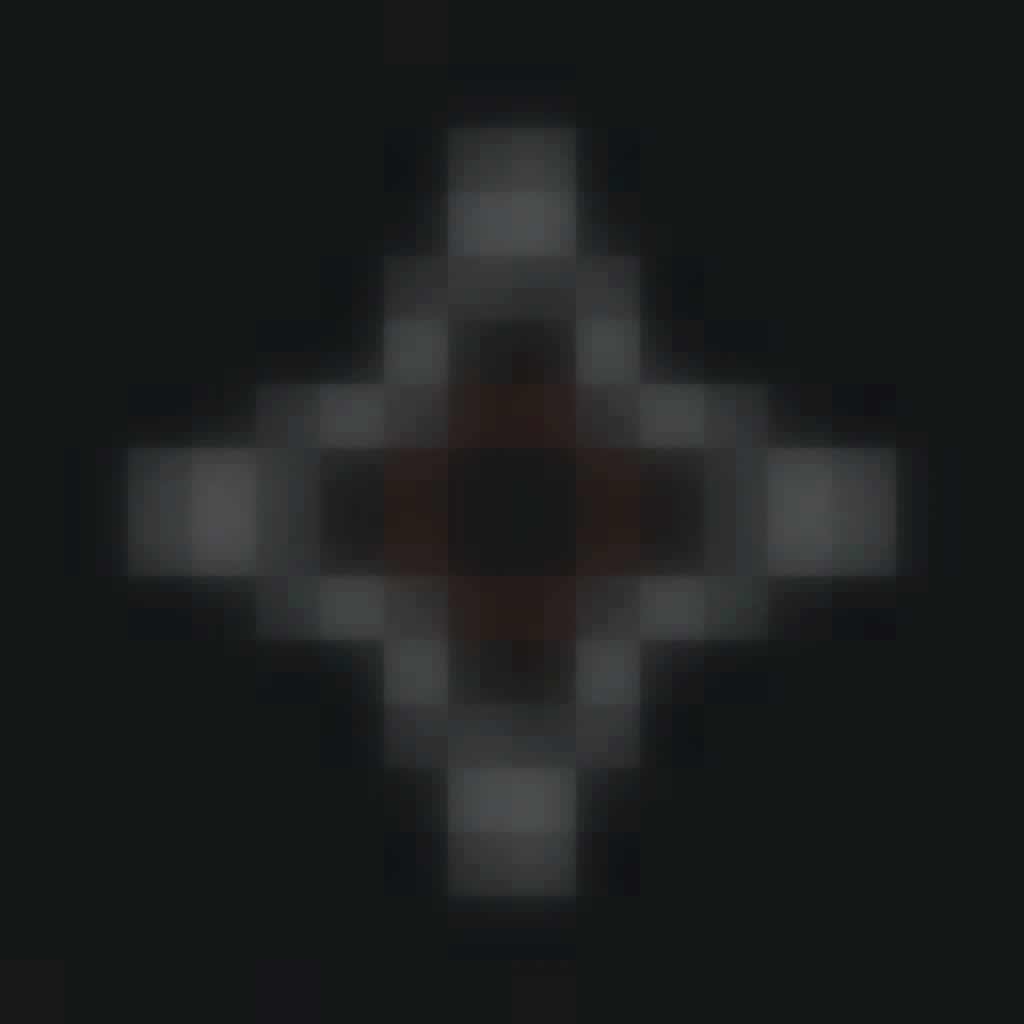
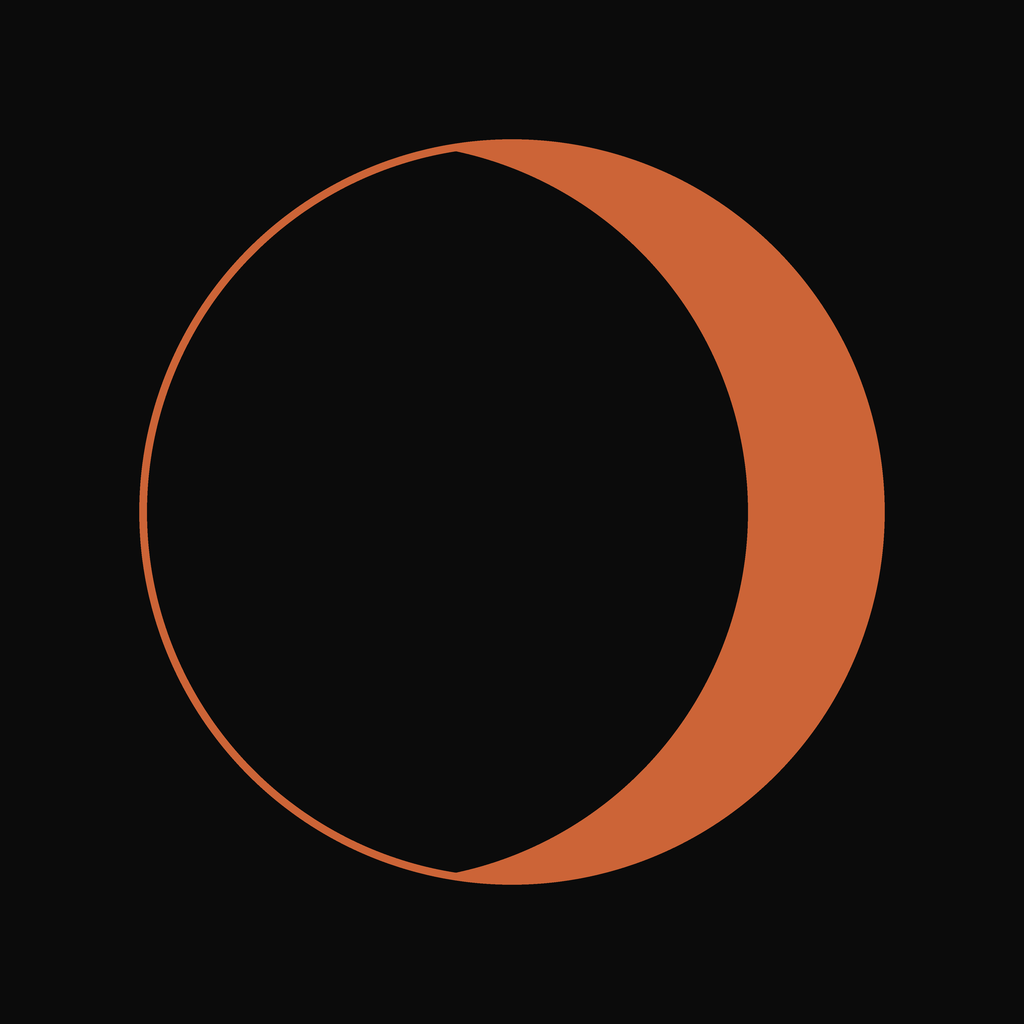
feat: replace star mark with geometric eclipse
Drawn in code so the crescent stays sharp from 16px through the Dock.

diff --git a/Ember/MenuBarMark.swift b/Ember/MenuBarMark.swift
@@ -6,48 +6,32 @@ enum MenuBarMark {
     static func image(phase: Phase? = .day) -> NSImage {
         let size = NSSize(width: 18, height: 18)
         let image = NSImage(size: size, flipped: false) { rect in
-            let inset = rect.insetBy(dx: 1.5, dy: 1.5)
-            let c = CGPoint(x: rect.midX, y: rect.midY)
+            let inset = rect.insetBy(dx: 2, dy: 2)
             let r = min(inset.width, inset.height) / 2
-            let star = starPath(center: c, r: r)
-            star.lineWidth = 1.1
-            star.lineJoinStyle = .miter
-            NSColor.black.setStroke()
-            star.stroke()
+            let box = NSRect(x: rect.midX - r, y: rect.midY - r, width: r * 2, height: r * 2)
+            NSColor.black.set()
             switch phase {
-            case .evening:
-                let inner = NSBezierPath()
-                inner.move(to: CGPoint(x: c.x, y: c.y + r * 0.32))
-                inner.line(to: CGPoint(x: c.x + r * 0.32, y: c.y))
-                inner.line(to: CGPoint(x: c.x, y: c.y - r * 0.32))
-                inner.line(to: CGPoint(x: c.x - r * 0.32, y: c.y))
-                inner.close()
-                NSColor.black.setFill()
-                inner.fill()
-            case .night:
-                NSColor.black.setFill()
-                star.fill()
+            case .evening, .night:
+                let offset: CGFloat = phase == .night ? r * 0.50 : r * 0.36
+                let crescent = NSBezierPath()
+                crescent.windingRule = .evenOdd
+                crescent.appendOval(in: box)
+                crescent.appendOval(in: box.offsetBy(dx: -offset, dy: 0))
+                crescent.fill()
+                if phase == .evening {
+                    let ring = NSBezierPath(ovalIn: box)
+                    ring.lineWidth = 1.2
+                    ring.stroke()
+                }
             default:
-                break
+                let ring = NSBezierPath(ovalIn: box)
+                ring.lineWidth = 1.2
+                ring.stroke()
             }
             return true
         }
         image.isTemplate = true
         return image
-    }
-
-    private static func starPath(center c: CGPoint, r: CGFloat) -> NSBezierPath {
-        let path = NSBezierPath()
-        path.move(to: CGPoint(x: c.x, y: c.y + r))
-        path.line(to: CGPoint(x: c.x + r * 0.28, y: c.y + r * 0.28))
-        path.line(to: CGPoint(x: c.x + r, y: c.y))
-        path.line(to: CGPoint(x: c.x + r * 0.28, y: c.y - r * 0.28))
-        path.line(to: CGPoint(x: c.x, y: c.y - r))
-        path.line(to: CGPoint(x: c.x - r * 0.28, y: c.y - r * 0.28))
-        path.line(to: CGPoint(x: c.x - r, y: c.y))
-        path.line(to: CGPoint(x: c.x - r * 0.28, y: c.y + r * 0.28))
-        path.close()
-        return path
     }
 }
 

diff --git a/site/index.html b/site/index.html
@@ -42,7 +42,19 @@
     </div>
 
     <header class="nav">
-      <a class="wordmark" href="/">Ember</a>
+      <a class="wordmark" href="/">
+          <svg viewBox="0 0 64 64" width="22" height="22" aria-hidden="true">
+            <defs>
+              <mask id="nav-crescent">
+                <circle cx="32" cy="32" r="20" fill="#fff"/>
+                <circle cx="24.8" cy="32" r="20" fill="#000"/>
+              </mask>
+            </defs>
+            <circle cx="32" cy="32" r="20" fill="#cc6437" mask="url(#nav-crescent)"/>
+            <circle cx="32" cy="32" r="20" fill="none" stroke="#cc6437" stroke-width="1.4"/>
+          </svg>
+          Ember
+        </a>
       <a class="pill" href="#get">Get Ember</a>
     </header>
 
@@ -53,8 +65,14 @@
         <p class="flank right">Dark when you do not</p>
         <div class="hero-core">
           <svg class="mark" viewBox="0 0 64 64" aria-hidden="true">
-            <path d="M32 4 L40 24 L60 32 L40 40 L32 60 L24 40 L4 32 L24 24 Z" fill="none" stroke="#fff" stroke-width="1.6"/>
-            <rect x="24" y="24" width="16" height="16" transform="rotate(45 32 32)" fill="none" stroke="#cc6437" stroke-width="1.4"/>
+            <defs>
+              <mask id="ember-crescent">
+                <circle cx="32" cy="32" r="20" fill="#fff"/>
+                <circle cx="24.8" cy="32" r="20" fill="#000"/>
+              </mask>
+            </defs>
+            <circle cx="32" cy="32" r="20" fill="#cc6437" mask="url(#ember-crescent)"/>
+            <circle cx="32" cy="32" r="20" fill="none" stroke="#cc6437" stroke-width="1.4"/>
           </svg>
           <h1>Ember</h1>
           <p class="lede">The Mac menu bar app that paints the screen with the day. Cool light to wake. Warm and dim to sleep. Not an orange filter.</p>

diff --git a/site/privacy.html b/site/privacy.html
@@ -11,7 +11,19 @@
   </head>
   <body>
     <header class="nav">
-      <a class="wordmark" href="/">Ember</a>
+      <a class="wordmark" href="/">
+          <svg viewBox="0 0 64 64" width="22" height="22" aria-hidden="true">
+            <defs>
+              <mask id="nav-crescent">
+                <circle cx="32" cy="32" r="20" fill="#fff"/>
+                <circle cx="24.8" cy="32" r="20" fill="#000"/>
+              </mask>
+            </defs>
+            <circle cx="32" cy="32" r="20" fill="#cc6437" mask="url(#nav-crescent)"/>
+            <circle cx="32" cy="32" r="20" fill="none" stroke="#cc6437" stroke-width="1.4"/>
+          </svg>
+          Ember
+        </a>
       <a class="pill" href="/">Back</a>
     </header>
     <main class="legal">

diff --git a/site/styles.css b/site/styles.css
@@ -58,7 +58,13 @@ p { margin: 0; }
   max-width: 1400px;
   margin: 0 auto;
 }
-.wordmark { font-size: 20px; }
+.wordmark {
+  font-size: 20px;
+  display: inline-flex;
+  align-items: center;
+  gap: 10px;
+}
+.wordmark svg { display: block; }
 
 .pill {
   display: inline-block;
@@ -96,7 +102,7 @@ p { margin: 0; }
   text-align: center;
   max-width: 560px;
 }
-.mark { width: 64px; height: 64px; margin: 0 auto; }
+.mark { width: 72px; height: 72px; margin: 0 auto 8px; }
 .lede {
   font-size: 15px;
   line-height: 1.43;

diff --git a/scripts/make-icon.py b/scripts/make-icon.py
@@ -1,0 +1,71 @@
+#!/usr/bin/env python3
+"""Draw the Ember eclipse mark at every Mac icon size."""
+
+from pathlib import Path
+from PIL import Image, ImageDraw
+
+VOID = (11, 11, 11, 255)
+EMBER = (204, 100, 55, 255)
+ROOT = Path(__file__).resolve().parents[1]
+SET = ROOT / "Ember/Assets.xcassets/AppIcon.appiconset"
+SITE = ROOT / "site"
+
+
+def draw_icon(size: int, *, r_frac: float = 0.36, offset_frac: float = 0.36) -> Image.Image:
+    scale = 8 if size <= 64 else 4
+    canvas = size * scale
+    img = Image.new("RGBA", (canvas, canvas), VOID)
+    cx = cy = canvas / 2.0
+    r = canvas * r_frac
+    off = r * offset_frac
+
+    mask = Image.new("L", (canvas, canvas), 0)
+    m = ImageDraw.Draw(mask)
+    m.ellipse([cx - r, cy - r, cx + r, cy + r], fill=255)
+    m.ellipse([cx - r - off, cy - r, cx + r - off, cy + r], fill=0)
+    img.paste(Image.new("RGBA", (canvas, canvas), EMBER), mask=mask)
+
+    overlay = Image.new("RGBA", (canvas, canvas), (0, 0, 0, 0))
+    d = ImageDraw.Draw(overlay)
+    stroke = max(scale, int(round(canvas * (0.022 if size <= 64 else 0.0075))))
+    pad = stroke / 2.0
+    d.ellipse(
+        [cx - r - pad, cy - r - pad, cx + r + pad, cy + r + pad],
+        outline=EMBER,
+        width=stroke,
+    )
+    img = Image.alpha_composite(img, overlay)
+    return img.resize((size, size), Image.Resampling.LANCZOS)
+
+
+def main() -> None:
+    SET.mkdir(parents=True, exist_ok=True)
+    sizes = {
+        "icon_16.png": 16,
+        "icon_16@2x.png": 32,
+        "icon_32.png": 32,
+        "icon_32@2x.png": 64,
+        "icon_128.png": 128,
+        "icon_128@2x.png": 256,
+        "icon_256.png": 256,
+        "icon_256@2x.png": 512,
+        "icon_512.png": 512,
+        "icon_512@2x.png": 1024,
+        "icon_1024.png": 1024,
+    }
+    master = None
+    for name, size in sizes.items():
+        im = draw_icon(size)
+        im.save(SET / name, "PNG")
+        if size == 1024:
+            master = im
+    assert master is not None
+    (SITE / "assets").mkdir(parents=True, exist_ok=True)
+    master.resize((512, 512), Image.Resampling.LANCZOS).save(SITE / "assets/icon.png", "PNG")
+    master.save(SITE / "apple-touch-icon.png", "PNG")
+    draw_icon(32).save(SITE / "favicon.png", "PNG")
+    print("icons written")
+
+
+if __name__ == "__main__":
+    main()
